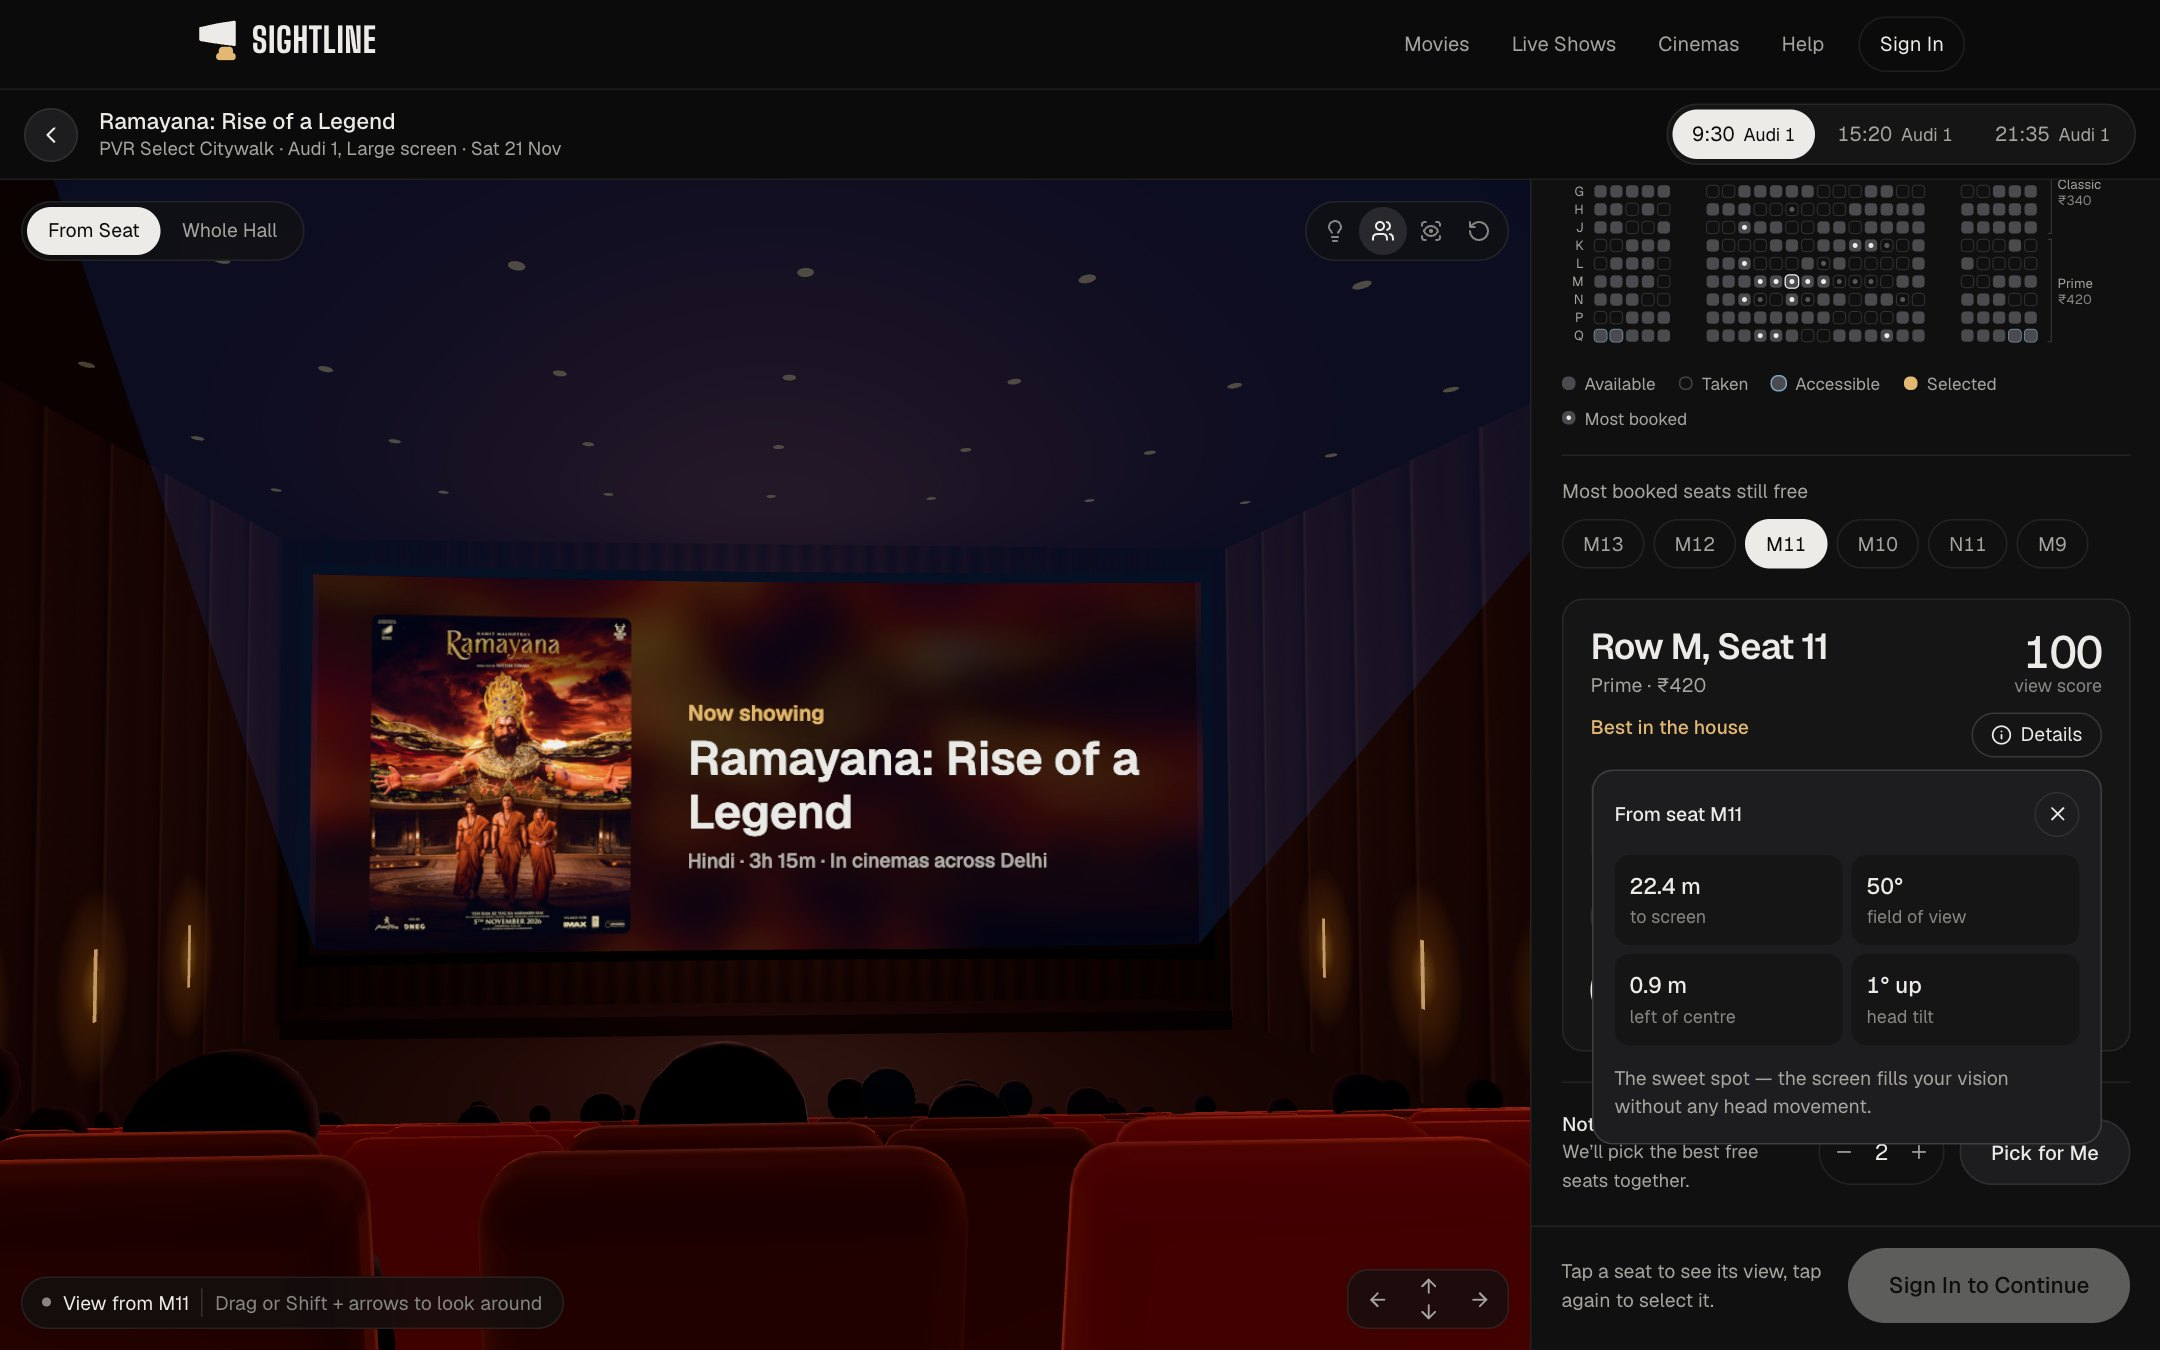
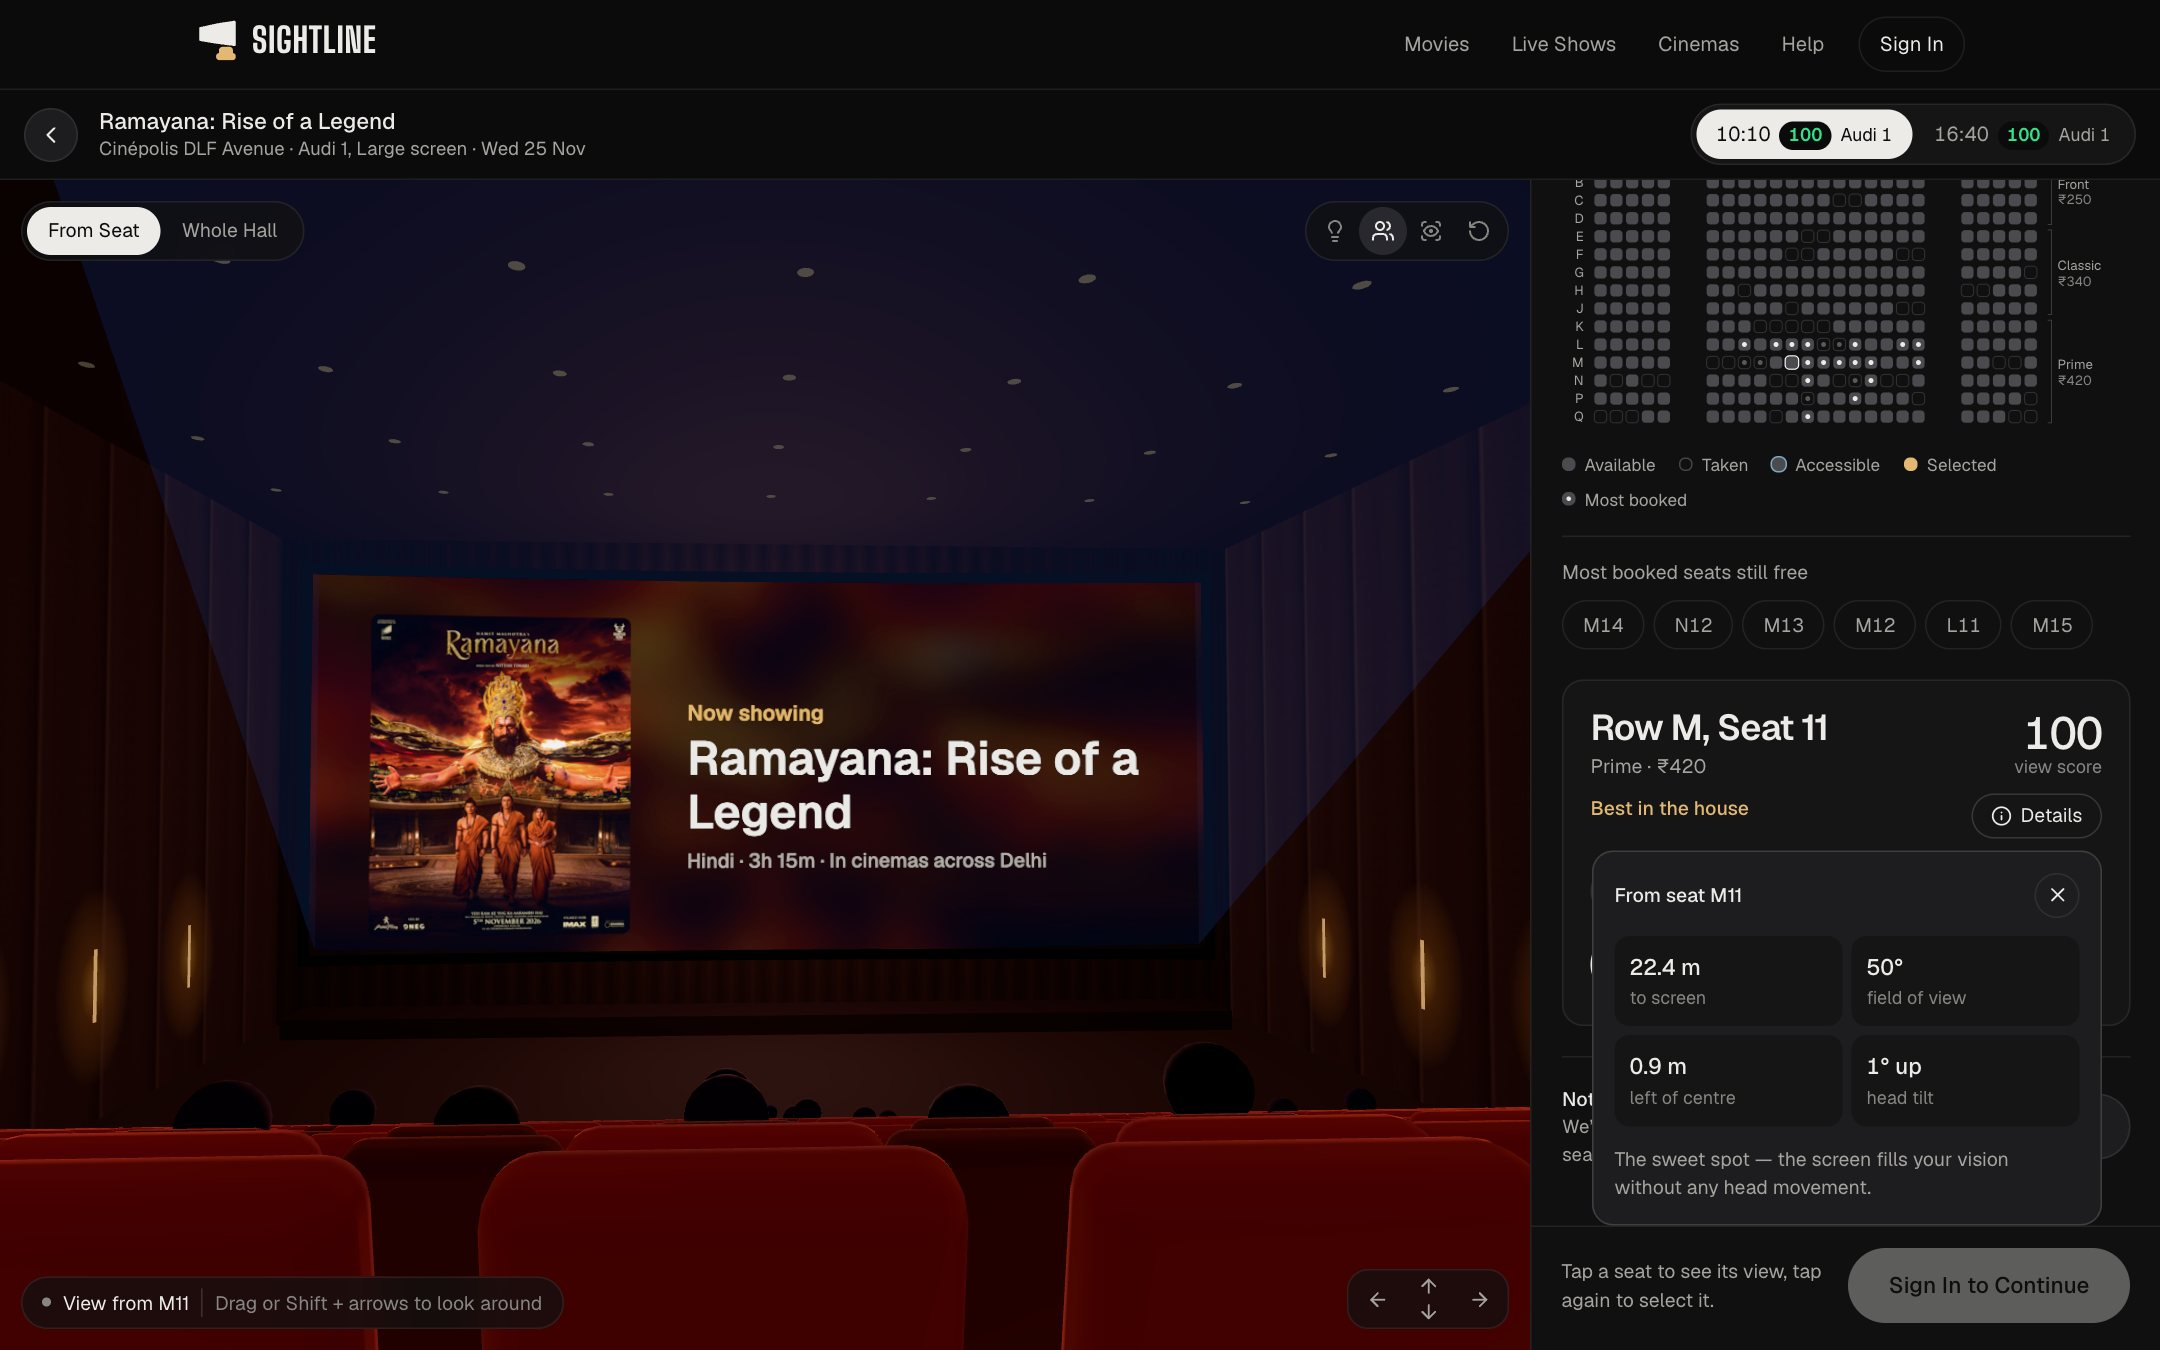
docs: link the live demo and retake the screenshots
The README now opens with the live site at sightline07.vercel.app and
how to try it: the one-click demo customer and admin, and the test
card that is approved. It also notes that the demo runs in Vercel's
Singapore region next to its Neon database.

All twelve screenshots are retaken from the current site, so they show
the view scores in the booking page's time switcher, the directions
link on each cinema in the showtimes, and the full ticket.

diff --git a/README.md b/README.md
@@ -2,6 +2,8 @@
 
 **Book a cinema seat after you’ve seen the view from it.** SightLine is a ticket booking product for movies and live shows in Delhi’s cinemas. Every auditorium is modelled to scale in 3D, so before you pay you can sit in any seat and see the screen exactly as it looks from there, with a view score that says how good that seat really is.
 
+**Try it live: [sightline07.vercel.app](https://sightline07.vercel.app).** On the sign-in page, **Continue With Demo Account** books as a customer and **Sign in as the demo admin** opens the staff pages. Payments run in test mode, so no money moves; card 4111 1111 1111 1111 is approved.
+
 ![SightLine booking: switching between seats in a 3D model of the auditorium, then viewing the whole hall](docs/demo.webp)
 
 ## The problem
@@ -88,7 +90,7 @@ The API suite runs against SQLite and PostgreSQL, and passes with the server’s
 
 | Showtimes with the best view left | Seat details |
 |---|---|
-| ![A movie's Sunday showtimes, grouped by cinema and auditorium, each time with the best view score still free for four seats together and how full it is](docs/screenshots/showtimes.jpg) | ![The Details pop-up for seat M11: distance, field of view, offset from centre and head tilt](docs/screenshots/seat-details.jpg) |
+| ![A movie's Sunday showtimes, grouped by cinema and auditorium, each time with the best view score still free for four seats together and how full it is, and directions to each cinema](docs/screenshots/showtimes.jpg) | ![The Details pop-up for seat M11: distance, field of view, offset from centre and head tilt](docs/screenshots/seat-details.jpg) |
 | **Live shows in the same halls** | **A cinema and its auditoriums** |
 | ![Live shows: comedy, music, cricket screenings and theatre](docs/screenshots/live-shows.jpg) | ![A cinema page with its photo, lobby and auditoriums](docs/screenshots/cinema.jpg) |
 | **Checkout with test payments** | **Ticket with the booked view** |
@@ -115,7 +117,7 @@ npm run dev
 
 Open [localhost:5173](http://localhost:5173). With no settings the data lives in a local SQLite file; `.env.example` lists the optional settings (PostgreSQL, email, Google sign-in, a TMDB key for larger posters). On the sign-in page, **Continue With Demo Account** books as a customer and **Sign in as the demo admin** opens the admin pages.
 
-For production, `npm run build` then `npm start`, or `docker compose up`. `vercel.json` deploys the site and API to Vercel with a hosted PostgreSQL.
+For production, `npm run build` then `npm start`, or `docker compose up`. `vercel.json` deploys the site and API to Vercel; the live demo runs in Vercel’s Singapore region on a Neon PostgreSQL database in the same region.
 
 ## Tech stack
 
